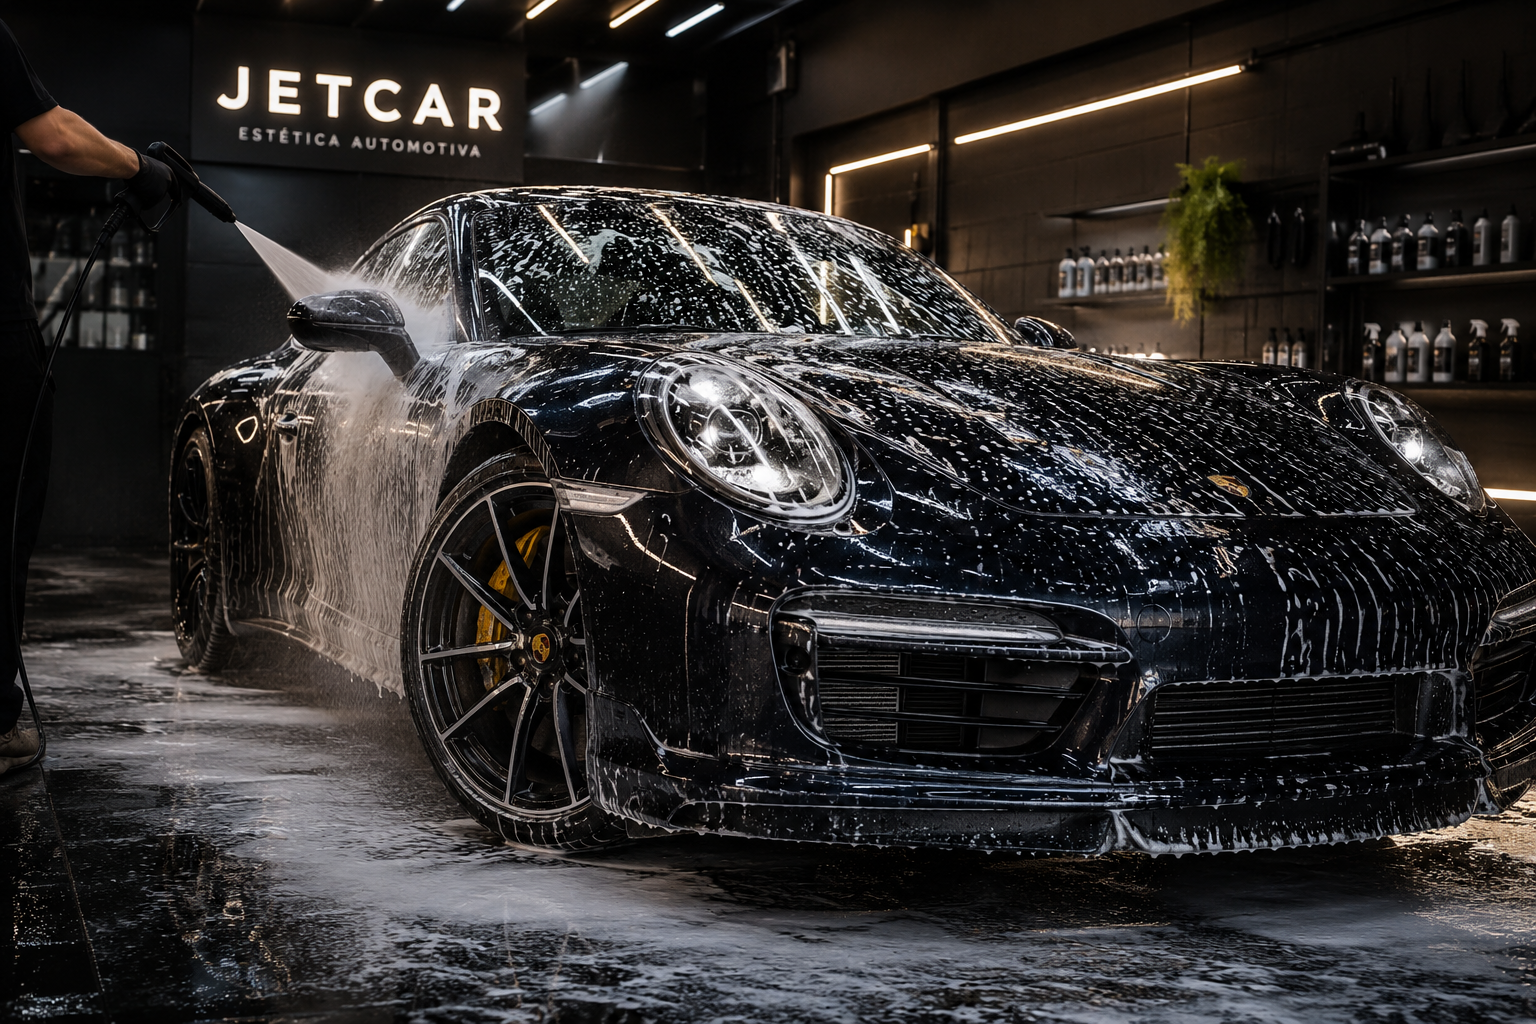
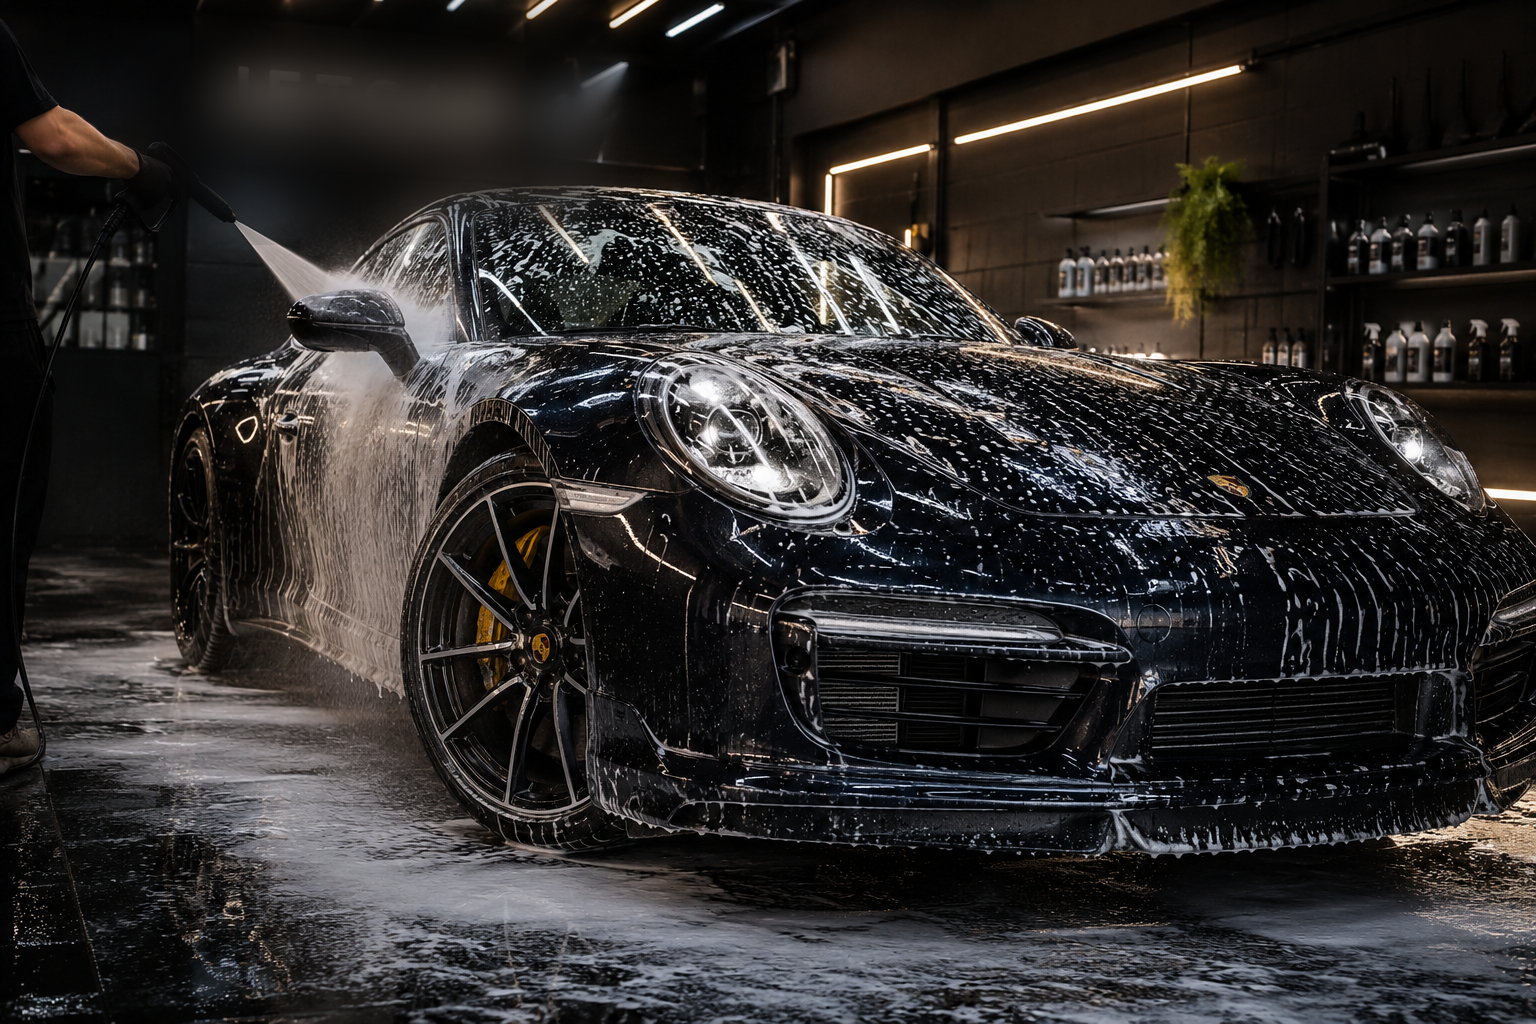
Renomeia a marca para RDC Real Detail Car em todo o site
Atualiza título, meta description, textos de marca, alt texts e
rodapé de "JetCar Estética Automotiva" para "RDC Real Detail Car".
Também remove o texto "JETCAR" que aparecia gravado na parede da
foto de fundo do hero, para não conflitar com a nova identidade.

Claude-Session: https://claude.ai/code/session_01RtmwNpkZoq3G4GkQux1HeJ

Changed region(s): [[0.125, 0.0625, 0.4062, 0.25], [0.3438, 0.0, 0.375, 0.0312], [0.0625, 0.125, 0.0938, 0.1562]]

diff --git a/index.html b/index.html
@@ -4,9 +4,9 @@
 <head>
     <meta charset="UTF-8">
     <meta name="viewport" content="width=device-width, initial-scale=1.0">
-    <title>JetCar Estética Automotiva | Desde 2020</title>
+    <title>RDC Real Detail Car | Desde 2020</title>
     <meta name="description"
-        content="JetCar Estética Automotiva em Uberlândia-MG. Lavagem detalhada, polimento técnico, vitrificação de pintura e proteção premium para o seu carro.">
+        content="RDC Real Detail Car em Uberlândia-MG. Lavagem detalhada, polimento técnico, vitrificação de pintura e proteção premium para o seu carro.">
 
     <!-- Fontes: Anton para títulos de impacto, Playfair Display para o toque premium, Inter para leitura -->
     <link rel="preconnect" href="https://fonts.googleapis.com">
@@ -37,10 +37,10 @@
     <header class="header" id="header">
         <div class="container header__inner">
             <a href="#topo" class="brand">
-                <img src="./assets/logo-rdc.png" alt="JetCar Estética Automotiva" class="brand__logo">
+                <img src="./assets/logo-rdc.png" alt="RDC Real Detail Car" class="brand__logo">
                 <span class="brand__text">
-                    <strong><i><span class="jet">JET</span>CAR</i></strong>
-                    <small>ESTÉTICA AUTOMOTIVA</small>
+                    <strong><i><span class="jet">RDC</span></i></strong>
+                    <small>REAL DETAIL CAR</small>
                 </span>
             </a>
 
@@ -68,7 +68,7 @@
     <section class="hero" id="topo">
         <div class="hero__bg">
             <img src="./assets/hero-jetcar.png"
-                alt="Porsche 911 preto recebendo lavagem detalhada no box da JetCar" class="hero__img">
+                alt="Porsche 911 preto recebendo lavagem detalhada no box da RDC" class="hero__img">
             <div class="hero__overlay"></div>
         </div>
 
@@ -78,7 +78,7 @@
                 Atendimento exclusivo · sob agendamento
             </span>
             <h1 class="hero__title reveal">
-                <i><span class="jet">JET</span>CAR</i><br>SEU CARRO MERECE<br>
+                <i><span class="jet">RDC</span></i><br>SEU CARRO MERECE<br>
                 OUTRO NÍVEL <span class="text-red"><i class="hero__accent">de brilho</i></span>
             </h1>
             <p class="hero__subtitle reveal">
@@ -157,10 +157,10 @@
                 </div>
             </div>
             <div class="about__text reveal">
-                <span class="eyebrow">Sobre a JetCar</span>
+                <span class="eyebrow">Sobre a RDC</span>
                 <h2 class="section-title">Paixão por carros, <span class="text-red">obsessão por detalhes</span></h2>
                 <p>
-                    Desde 2020 a JetCar Estética Automotiva cuida de carros em Uberlândia com uma missão simples:
+                    Desde 2020 a RDC Real Detail Car cuida de carros em Uberlândia com uma missão simples:
                     entregar um acabamento que impressiona no primeiro olhar e protege por muito mais tempo.
                     Trabalhamos com produtos premium, técnica apurada e o cuidado de quem trata cada carro como se fosse
                     o próprio.
@@ -263,14 +263,14 @@
     <section class="gallery" id="galeria">
         <div class="container">
             <div class="section-head reveal">
-                <span class="eyebrow">Resultado JetCar</span>
+                <span class="eyebrow">Resultado RDC</span>
                 <h2 class="section-title">Cada carro, uma vitrine</h2>
             </div>
 
             <div class="gallery__grid">
                 <div class="gallery__item gallery__item--big reveal">
                     <img src="./assets/estrutura-03.jpg"
-                        alt="BMW M8 escuro em sessão de fotos no estúdio da JetCar sob iluminação vermelha">
+                        alt="BMW M8 escuro em sessão de fotos no estúdio da RDC sob iluminação vermelha">
                 </div>
                 <div class="gallery__item reveal">
                     <img src="https://images.unsplash.com/photo-1694678505383-676d78ea3b96?auto=format&fit=crop&w=800&q=80"
@@ -326,7 +326,7 @@
     <section class="contact" id="contato">
         <div class="container contact__box reveal">
             <span class="eyebrow">Vamos deixar seu carro brilhando!</span>
-            <h2 class="section-title">Fale com a JetCar agora</h2>
+            <h2 class="section-title">Fale com a RDC agora</h2>
             <p class="section-desc">Chame no WhatsApp e agende um horário, ou acompanhe os bastidores no
                 Instagram.</p>
 
@@ -348,10 +348,10 @@
     <footer class="footer">
         <div class="container footer__inner">
             <a href="#topo" class="brand">
-                <img src="./assets/logo-rdc.png" alt="JetCar" class="brand__logo brand__logo--small">
+                <img src="./assets/logo-rdc.png" alt="RDC" class="brand__logo brand__logo--small">
                 <span class="brand__text">
-                    <strong><i><span class="jet">JET</span>CAR</i></strong>
-                    <small>ESTÉTICA AUTOMOTIVA</small>
+                    <strong><i><span class="jet">RDC</span></i></strong>
+                    <small>REAL DETAIL CAR</small>
                 </span>
             </a>
 
@@ -365,7 +365,7 @@
 
             </div>
         </div>
-        <p class="footer__copy">© <span id="currentYear"></span> JetCar Estética Automotiva · Uberlândia, MG</p>
+        <p class="footer__copy">© <span id="currentYear"></span> RDC Real Detail Car · Uberlândia, MG</p>
     </footer>
 
     <!-- ===== BOTÃO FLUTUANTE DO WHATSAPP ===== -->

diff --git a/script.js b/script.js
@@ -1,5 +1,5 @@
 /* ==========================================================
-   JETCAR ESTÉTICA AUTOMOTIVA — script.js
+   RDC REAL DETAIL CAR — script.js
    JavaScript simples, dividido em pequenas funções.
    Cada função cuida de UMA coisa só, para facilitar o entendimento.
    ========================================================== */
@@ -89,7 +89,7 @@ function ativarAnimacaoAoRolar() {
 
 /* --------------------------------------------------------
    4) CONTADOR DE ANOS DESDE 2020
-   Calcula quantos anos a JetCar já tem de estrada e anima
+   Calcula quantos anos a RDC já tem de estrada e anima
    o número subindo de 0 até o valor final.
 -------------------------------------------------------- */
 function contarAnosDesde2020() {

diff --git a/style.css b/style.css
@@ -1,5 +1,5 @@
 /* ==========================================================
-   JETCAR ESTÉTICA AUTOMOTIVA
+   RDC REAL DETAIL CAR
    Paleta: preto profundo + laranja de assinatura (RDC)
    como acento de exclusividade. Tipografia: Anton (impacto),
    Playfair Display itálico (acento premium), Inter (leitura).
